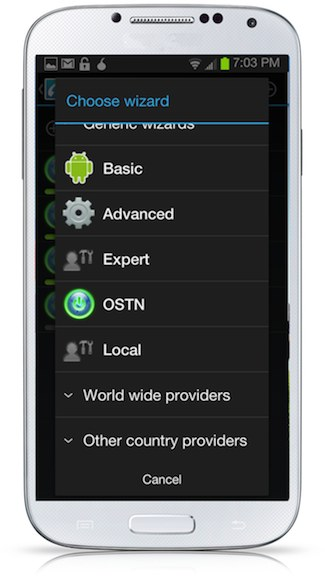
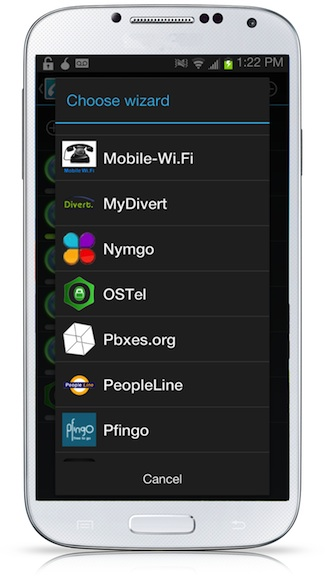
Updated from OSTN wizard to Ostel wizard

diff --git a/index.html b/index.html
@@ -446,15 +446,15 @@ Thanks to Sam Vermette for the inspiration - http://samvermette.com/
 <h2 id="stepf1">There's an alternative app store. Install <i>F-droid</i> by entering <br><i>https://f-droid.org/FDroid.apk</i> into a web browser. <br><a href="javascript:stepf2()">Done. Next?</a></h2>
 <h2 id="step22">You're awesome! <a href="javascript:step1()">Play it again?</a><br>· For more info, visit our site: <a href="http://guardianproject.info" target="_blank">The Guardian Project</a> · </h2>
 <h2 id="step21">The status should say "ZRTP - Verified", showing you that you're secure. <a href="javascript:step22()">That's what I see.</a></h2>
-<h2 id="step20">A confirmation code will pop up. Read it to them. If you both have the same code, you're secure. <br><a href="javascript:step21()">Our security codes match.</a>
+<h2 id="step20">A confirmation code will pop up. Read it to your friend. If you both have the same code, you're secure. <br><a href="javascript:step21()">Our security codes match.</a>
 <h2 id="step19">It's ringing. </h2>
-<h2 id="step18">18. Great! Let's call a friend.<br><a href="javascript:step19()">I'm dialing <i>Hans</i></a></h2>
+<h2 id="step18">18. Great! Let's switch to TXT keyboard & call a friend.<br><a href="javascript:step19()">I'm dialing <i>Hans</i></a></h2>
 <h2 id="step17">17. In the echo test, you should be able to hear your own voice. Say <i>cheese</i>!<br><a href="javascript:step18()"> I heard myself saying cheese, echoed.</a></h2>
-<h2 id="step16">16. Dial 9-1-9-6 to do an echo test. <br><a href="javascript:step17()"> Dialing...</a></h2>
-<h2 id="step15">15. To confirm it works, you'll see OSTN <SPAN style="BACKGROUND-COLOR: limegreen"> turn green </SPAN>. We're registered! <br><a href="javascript:step16()">Let's test it.</a></h2>
+<h2 id="step16">16. Dial 9196 to do an echo test. <br><a href="javascript:step17()"> Dialing...</a></h2>
+<h2 id="step15">15. To confirm it works, you'll see Ostel <SPAN style="BACKGROUND-COLOR: limegreen"> turn green </SPAN>. We're registered! <br><a href="javascript:step16()">Let's test it.</a></h2>
 <h2 id="step14">14. We emailed you the account info. <br><a href="javascript:step15()">I just entered that info.</a></h2>
 <h2 id="step13">13. You'll find empty account info. <br><a href="javascript:step14()">Let's fill it in!</a></h2>
-<h2 id="step12">12. Scroll down and click the  Open Secure Telephony Network (OSTN)  account wizard under Expert. <br><a href="javascript:step13()">I feel like a pro.</a></h2>
+<h2 id="step12">12. Scroll down and click the Ostel account wizard under world wide providers. <br><a href="javascript:step13()">I feel magical.</a></h2>
 <h2 id="step11">11. Add an account.  <br><a href="javascript:step12()">Adding...</a></h2>
 <h2 id="step10">10. Press the key icon to add an account. <br><a href="javascript:step11()">Pressed and I'm there.</a></h2>
 <h2 id="step9">9. Open up <i>CSipSimple</i>.  <br><a href="javascript:step10()">Done.</a></h2>
